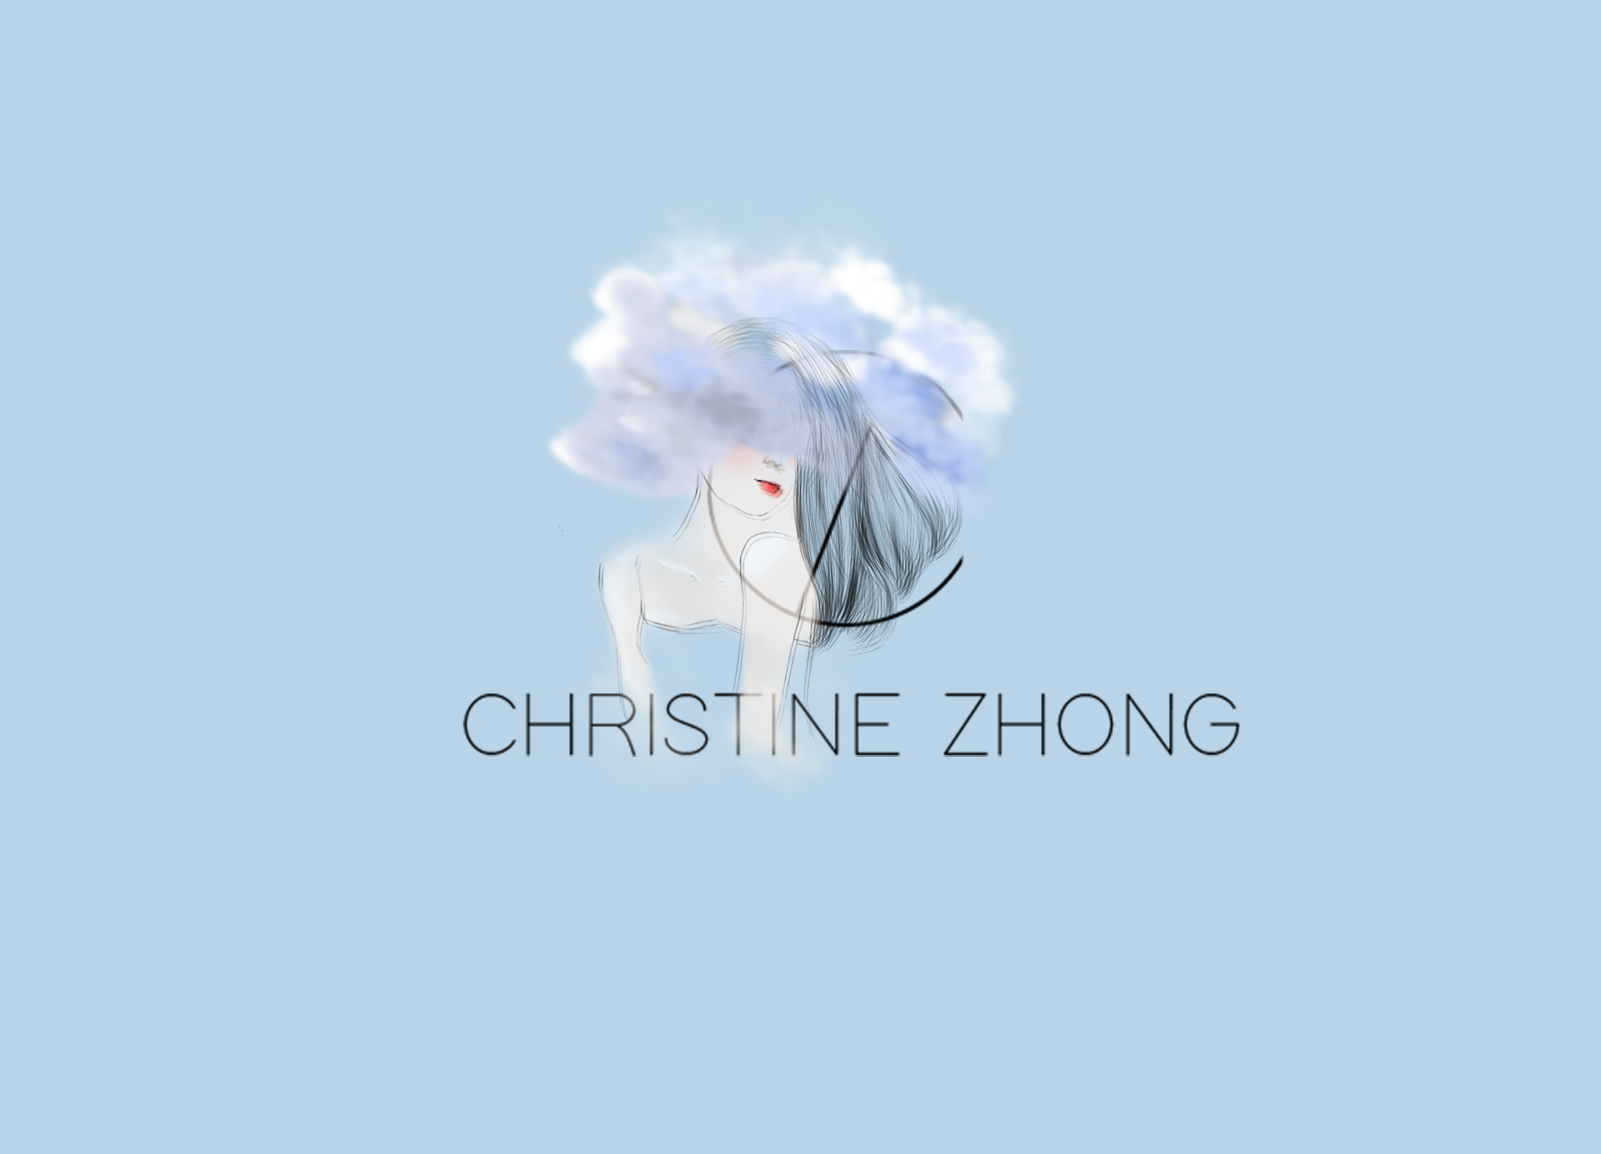
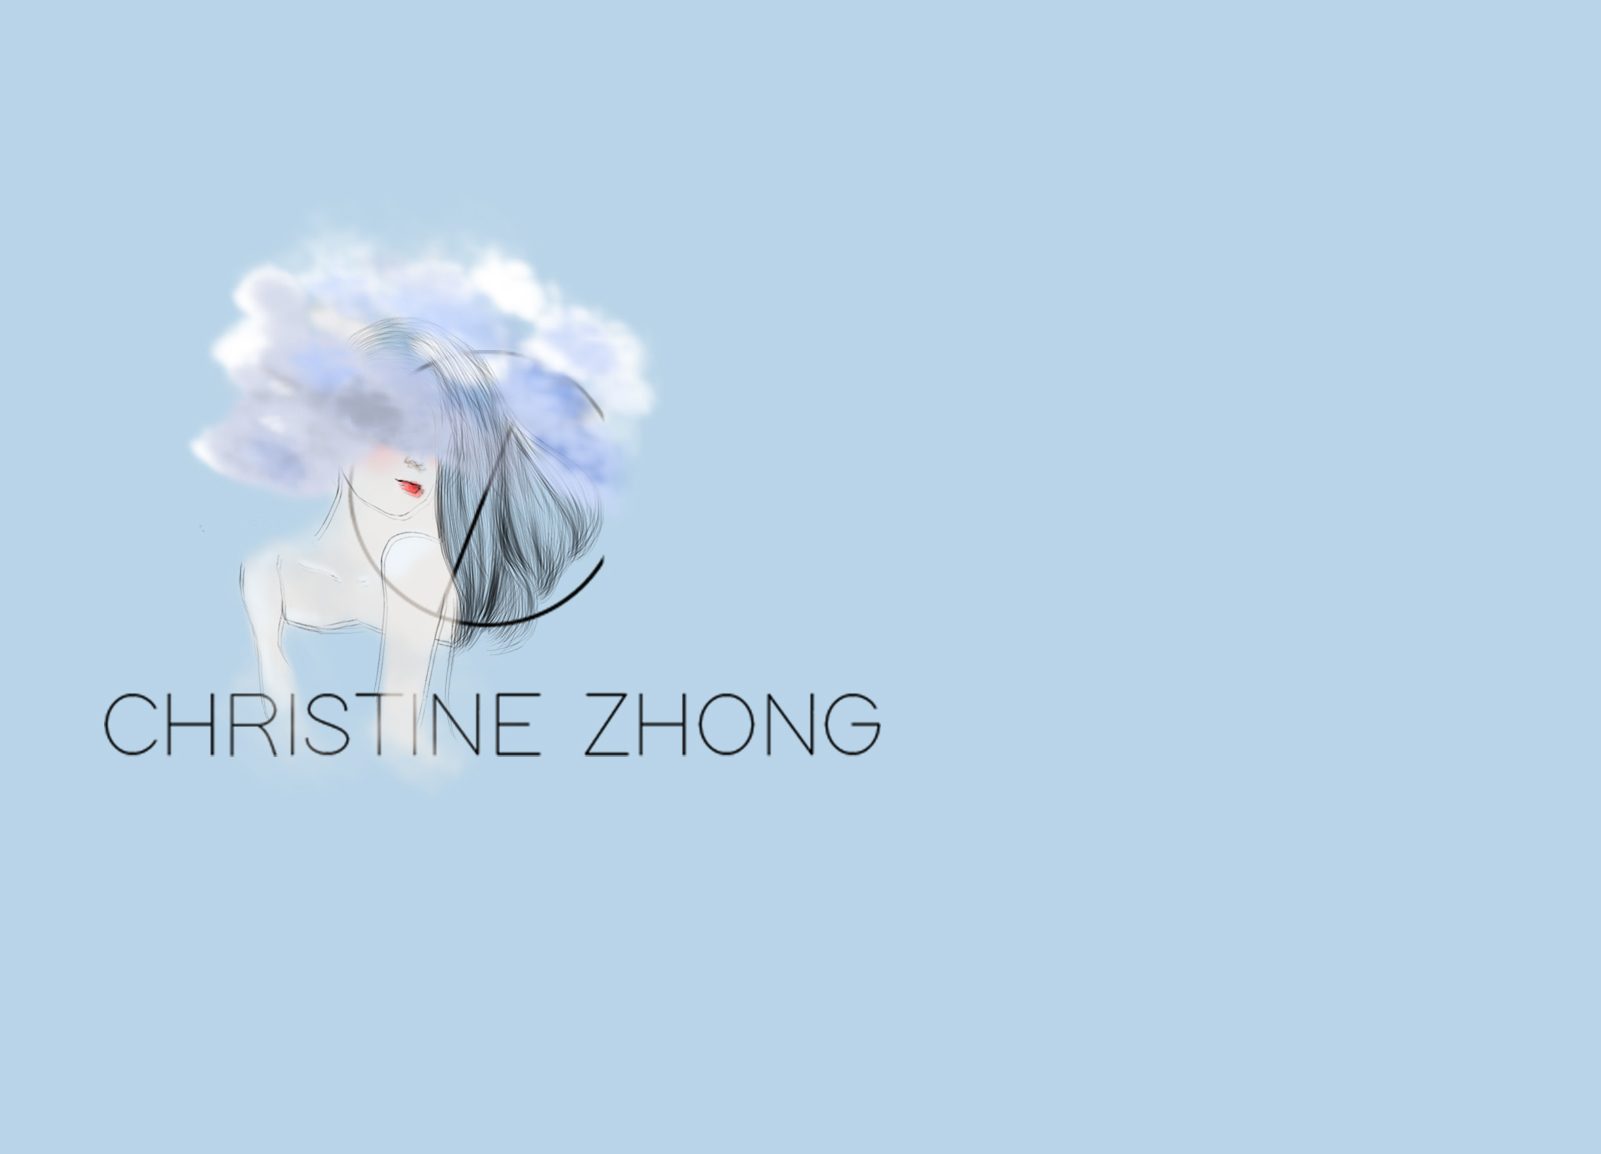
changes the postition of the title image

Changed region(s): [[0.0625, 0.1872, 0.6246, 0.6551], [0.5934, 0.5927, 0.7808, 0.6551]]

diff --git a/css/homepage.css b/css/homepage.css
@@ -22,7 +22,7 @@
 #landing{
   height: 50rem;
   width: 100%;
-  background-image:url("http://www.sfu.ca/~zjzhong/iat339/po03/img/titleimage.jpg");
+  background-image:url("http://www.sfu.ca/~zjzhong/iat339/po03/img/titleimage%20copy.jpg");
   background-size: cover;
   display: table;
   background-position: center;
